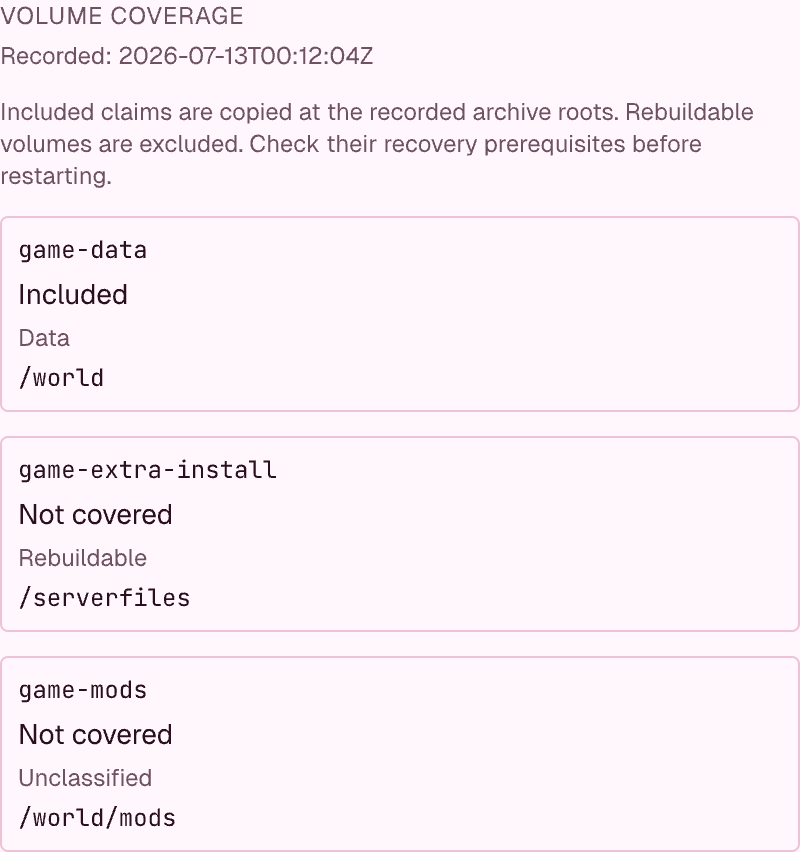
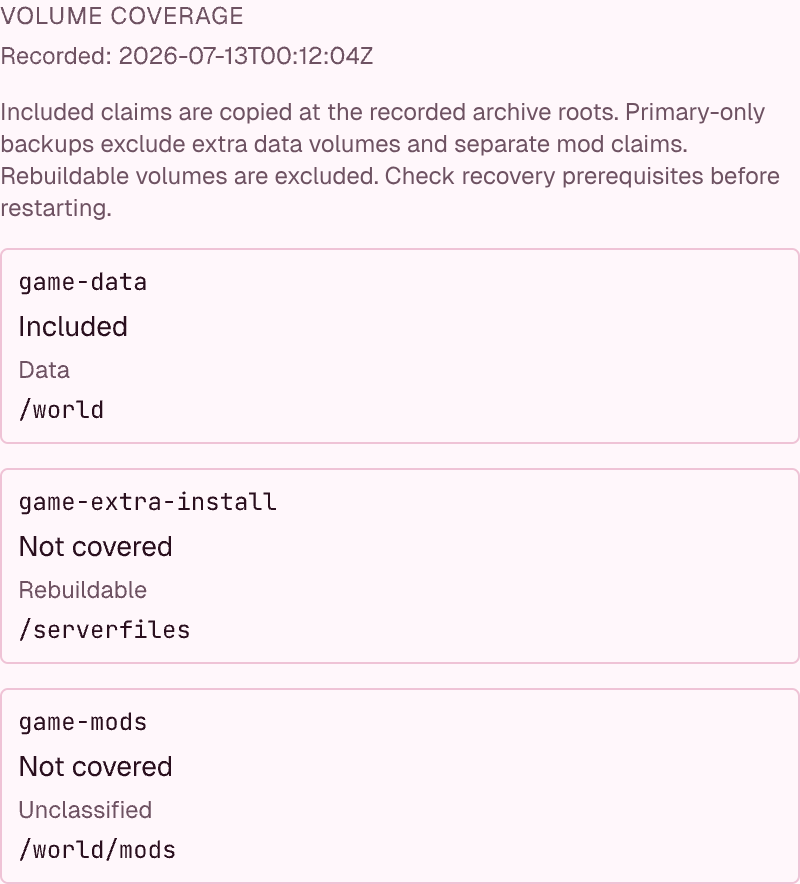
fix(recovery): address stopped backup review feedback

Changed region(s): [[0.0, 0.1221, 1.0, 0.9765], [0.0, 0.0, 0.4688, 0.0915], [0.9688, 0.2441, 1.0, 0.3052]]

diff --git a/web/src/components/backups/BackupDetailDrawer.test.tsx b/web/src/components/backups/BackupDetailDrawer.test.tsx
@@ -8,14 +8,18 @@ import { makeBackup } from "@/test/factories";
 import { BackupDetailDrawer } from "./BackupDetailDrawer";
 
 describe("BackupDetailDrawer", () => {
-  it("shows captured and excluded claims independently of copy success", async () => {
+  it.each([
+    { policy: "legacy/default primary", volumePolicy: undefined },
+    { policy: "explicit primary-only", volumePolicy: "primary-only" as const },
+  ])("shows captured and excluded claims for $policy independently of copy success", async ({ volumePolicy }) => {
     server.use(http.get("/backups/coverage", () => HttpResponse.json(makeBackup({
       metadata: { name: "coverage" },
       status: {
         phase: "Succeeded", snapshotID: "copy",
         conditions: [{ type: "Consistency", status: "False", reason: "UnsupportedRawCopy", message: "The game does not support quiesce." }],
-        captureManifest: { state: "Recorded", recordedAt: "2026-10-21T12:00:00Z", volumes: [
+        captureManifest: { state: "Recorded", volumePolicy, recordedAt: "2026-10-21T12:00:00Z", volumes: [
           { claimName: "game-data", claimUID: "world-uid", mountPaths: ["/world"], included: true, classification: "data", reason: "PrimaryDataClaim" },
+          { claimName: "game-extra-data", mountPaths: ["/extra-data"], included: false, classification: "data", reason: "NotCovered" },
           { claimName: "game-extra-install", mountPaths: ["/serverfiles"], included: false, classification: "rebuildable", reason: "NotCovered" },
           { claimName: "game-mods", mountPaths: ["/world/mods"], included: false, classification: "unclassified", reason: "NotCovered" },
         ] },
@@ -23,9 +27,11 @@ describe("BackupDetailDrawer", () => {
     }))));
     renderWithQuery(<BackupDetailDrawer permissions={["*"]} name="coverage" onClose={() => {}} onRestore={() => {}} />);
     expect(await screen.findByText("The game does not support quiesce.")).toBeInTheDocument();
+    expect(screen.getByText("Included claims are copied at the recorded archive roots. Primary-only backups exclude extra data volumes and separate mod claims. Rebuildable volumes are excluded. Check recovery prerequisites before restarting.")).toBeInTheDocument();
     expect(screen.getByText("game-data")).toBeInTheDocument();
+    expect(screen.getByText("game-extra-data")).toBeInTheDocument();
     expect(screen.getByText("/world/mods")).toBeInTheDocument();
-    expect(screen.getAllByText("Not covered")).toHaveLength(2);
+    expect(screen.getAllByText("Not covered")).toHaveLength(3);
     expect(screen.getByText("Rebuildable")).toBeInTheDocument();
   });
 

diff --git a/web/src/components/backups/BackupDetailDrawer.tsx b/web/src/components/backups/BackupDetailDrawer.tsx
@@ -89,7 +89,7 @@ export function BackupDetailDrawer({ name, ns, onClose, onRestore, target: expli
                     {manifest?.state === "Recorded" ? (
                       <div className="space-y-3">
                         {manifest.recordedAt && <div className="text-xs text-muted">{intl.formatMessage({ id: "web.components.backups.backup_detail_drawer.coverage_recorded", defaultMessage: "Recorded: {time}", description: "Backup details: timestamp of the immutable capture manifest" }, { time: manifest.recordedAt })}</div>}
-                        <p className="text-xs text-muted">{intl.formatMessage({ id: "web.components.backups.backup_detail_drawer.coverage_scope", defaultMessage: "Included claims are copied at the recorded archive roots. Rebuildable volumes are excluded. Check their recovery prerequisites before restarting.", description: "Backup details: explains recorded volume coverage and excluded rebuildable recovery prerequisites" })}</p>
+                        <p className="text-xs text-muted">{intl.formatMessage({ id: "web.components.backups.backup_detail_drawer.coverage_scope", defaultMessage: "Included claims are copied at the recorded archive roots. Primary-only backups exclude extra data volumes and separate mod claims. Rebuildable volumes are excluded. Check recovery prerequisites before restarting.", description: "Backup details: explains recorded volume coverage, primary-only exclusions, and recovery prerequisites for excluded volumes" })}</p>
                         <ul className="space-y-3">
                           {manifest.volumes?.map((volume) => (
                             <li key={volume.claimName} className="rounded border border-border p-2 space-y-1">

diff --git a/operator/internal/controller/recovery_controller_test.go b/operator/internal/controller/recovery_controller_test.go
@@ -11,6 +11,7 @@ import (
 	appsv1 "k8s.io/api/apps/v1"
 	batchv1 "k8s.io/api/batch/v1"
 	corev1 "k8s.io/api/core/v1"
+	"k8s.io/apimachinery/pkg/api/meta"
 	metav1 "k8s.io/apimachinery/pkg/apis/meta/v1"
 	"k8s.io/apimachinery/pkg/runtime"
 	"k8s.io/apimachinery/pkg/types"
@@ -264,6 +265,106 @@ func TestStoppedOwnerRejectsAmbiguousWorkload(t *testing.T) {
 	debt.Claims = b.Status.CaptureManifest.Volumes
 	if ready, err := stoppedBackupCleanup(t.Context(), c, c, gs, debt); ready || err == nil || !strings.Contains(err.Error(), "intervention") {
 		t.Fatalf("ambiguous provenance: %v %v", ready, err)
+	}
+}
+
+func TestRecoveryInterventionClearsAfterStoppedBackupCleanup(t *testing.T) {
+	for _, orphan := range []bool{false, true} {
+		t.Run(map[bool]string{false: "normal", true: "orphan"}[orphan], func(t *testing.T) {
+			c, gs, b, _ := recoveryFixture(t)
+			b.Annotations[backupTargetAnnotation] = backupIdentityJSON(gs.Name, gs.UID)
+			if err := c.Update(t.Context(), b); err != nil {
+				t.Fatal(err)
+			}
+			op := lifecycleOperation{lifecycleIdentity: backupLifecycleIdentity(gs, b, false)}
+			op.StoppedBackup.Stage = "Drained"
+			op.StoppedBackup.WorkloadUID = "unverified-workload"
+			op.StoppedBackup.Deadline = time.Now().Format(time.RFC3339Nano)
+			op.StoppedBackup.Claims = b.Status.CaptureManifest.Volumes
+			gs.Annotations[lifecycleOperationAnnotation] = lifecycleOperationJSON(op)
+			gs.Annotations[backupGuardAnnotation] = backupIdentityJSON(b.Name, b.UID)
+			if err := c.Update(t.Context(), gs); err != nil {
+				t.Fatal(err)
+			}
+			gs.Status.Conditions = []metav1.Condition{{Type: "Ready", Status: metav1.ConditionTrue, Reason: "Ready"}}
+			if err := c.Status().Update(t.Context(), gs); err != nil {
+				t.Fatal(err)
+			}
+			gr := &GameServerReconciler{Client: c, APIReader: c, Scheme: c.Scheme()}
+			br := &BackupReconciler{Client: c, APIReader: c, Scheme: c.Scheme()}
+			cleanup := func(wantError string) {
+				t.Helper()
+				var err error
+				if orphan {
+					_, err = gr.recoverStoppedBackupOwner(t.Context(), gs)
+					wantError = "" // Orphan intervention is reported through status.
+				} else {
+					err = br.releaseBackupTarget(t.Context(), b)
+				}
+				if wantError == "" && err != nil {
+					t.Fatal(err)
+				}
+				if wantError != "" && (err == nil || !strings.Contains(err.Error(), wantError)) {
+					t.Fatalf("cleanup error = %v, want %q", err, wantError)
+				}
+				if err := c.Get(t.Context(), client.ObjectKeyFromObject(gs), gs); err != nil {
+					t.Fatal(err)
+				}
+			}
+			if orphan {
+				if err := c.Delete(t.Context(), b); err != nil {
+					t.Fatal(err)
+				}
+			}
+			cleanup("intervention")
+			if !meta.IsStatusConditionTrue(gs.Status.Conditions, "RecoveryIntervention") || gs.Annotations[lifecycleOperationAnnotation] == "" {
+				t.Fatal("unverified workload did not retain intervention and ownership")
+			}
+			op.StoppedBackup.WorkloadUID = "workload"
+			gs.Annotations[lifecycleOperationAnnotation] = lifecycleOperationJSON(op)
+			if err := c.Update(t.Context(), gs); err != nil {
+				t.Fatal(err)
+			}
+			var ss appsv1.StatefulSet
+			if err := c.Get(t.Context(), client.ObjectKeyFromObject(gs), &ss); err != nil {
+				t.Fatal(err)
+			}
+			zero := int32(0)
+			ss.Spec.Replicas = &zero
+			if err := c.Update(t.Context(), &ss); err != nil {
+				t.Fatal(err)
+			}
+			writer := &corev1.Pod{ObjectMeta: metav1.ObjectMeta{Name: "remaining-writer", Namespace: gs.Namespace}, Spec: corev1.PodSpec{Volumes: []corev1.Volume{{Name: "world", VolumeSource: corev1.VolumeSource{PersistentVolumeClaim: &corev1.PersistentVolumeClaimVolumeSource{ClaimName: gs.Name + "-extra-world"}}}}}}
+			if err := c.Create(t.Context(), writer); err != nil {
+				t.Fatal(err)
+			}
+			cleanup("waiting for stopped source and workers to drain")
+			if changed, err := gr.recoverStoppedBackupOwner(t.Context(), gs); err != nil || changed {
+				t.Fatalf("intervention changed before writer drainage: %v %v", changed, err)
+			}
+			if !meta.IsStatusConditionTrue(gs.Status.Conditions, "RecoveryIntervention") || gs.Annotations[lifecycleOperationAnnotation] == "" {
+				t.Fatal("live writer did not retain intervention and ownership")
+			}
+			if err := c.Delete(t.Context(), writer); err != nil {
+				t.Fatal(err)
+			}
+			cleanup("")
+			if gs.Annotations[lifecycleOperationAnnotation] != "" || gs.Annotations[backupGuardAnnotation] != "" {
+				t.Fatal("completed cleanup retained ownership")
+			}
+			if changed, err := gr.recoverStoppedBackupOwner(t.Context(), gs); err != nil || !changed {
+				t.Fatalf("clear completed intervention: %v %v", changed, err)
+			}
+			if err := c.Get(t.Context(), client.ObjectKeyFromObject(gs), gs); err != nil {
+				t.Fatal(err)
+			}
+			if meta.FindStatusCondition(gs.Status.Conditions, "RecoveryIntervention") != nil || !meta.IsStatusConditionTrue(gs.Status.Conditions, "Ready") {
+				t.Fatal("completed cleanup retained intervention or removed unrelated status")
+			}
+			if changed, err := gr.recoverStoppedBackupOwner(t.Context(), gs); err != nil || changed {
+				t.Fatalf("clean recovery did not settle: %v %v", changed, err)
+			}
+		})
 	}
 }
 

diff --git a/operator/internal/controller/backup_stop.go b/operator/internal/controller/backup_stop.go
@@ -9,6 +9,7 @@ import (
 	appsv1 "k8s.io/api/apps/v1"
 	corev1 "k8s.io/api/core/v1"
 	apierrors "k8s.io/apimachinery/pkg/api/errors"
+	"k8s.io/apimachinery/pkg/api/meta"
 	metav1 "k8s.io/apimachinery/pkg/apis/meta/v1"
 	"k8s.io/apimachinery/pkg/types"
 	"sigs.k8s.io/controller-runtime/pkg/client"
@@ -141,7 +142,15 @@ func (r *GameServerReconciler) recoverStoppedBackupOwner(ctx context.Context, gs
 	if err != nil {
 		return true, recoveryIntervention(ctx, r.Client, gs, err.Error())
 	}
-	if !held || op.Kind != "Backup" || op.StoppedBackup == nil {
+	if !held {
+		// Wait until cleanup has durably released every owner and compatibility
+		// guard. A failed status write is retried on the next reconciliation.
+		if meta.RemoveStatusCondition(&gs.Status.Conditions, "RecoveryIntervention") {
+			return true, r.Status().Update(ctx, gs)
+		}
+		return false, nil
+	}
+	if op.Kind != "Backup" || op.StoppedBackup == nil {
 		return false, nil
 	}
 	exists, err := lifecycleOwnerExists(ctx, r.wipeReader(), gs.Namespace, op.lifecycleIdentity)

diff --git a/test/e2e/recovery_multivolume_e2e_test.go b/test/e2e/recovery_multivolume_e2e_test.go
@@ -96,7 +96,7 @@ func TestBackup_MultiVolumeRecoveryRoundTrip(t *testing.T) {
 			}
 		} else {
 			excluded++
-			if v["recoveryPrerequisite"] == "" {
+			if prerequisite, ok := v["recoveryPrerequisite"].(string); !ok || prerequisite == "" {
 				t.Fatal("missing recovery prerequisite")
 			}
 		}

diff --git a/operator/specs.md b/operator/specs.md
@@ -453,16 +453,16 @@ Primary reconcilers register with the manager in `cmd/main.go` and handle CRD li
   - Report RetentionTrimmed condition (success) or retention failure (TrimFailed).
 
 ### RestoreReconciler
-- **Responsibility:** Drive Restore to completion: suspend GameServer, run restic restore Job, resume.
+- **Responsibility:** Drive Restore to completion: stop the target workload, run the restore, and release lifecycle ownership according to the restore's power-intent contract.
 - **Key functions:**
   - Both restore strategies participate in shared lifecycle exclusion. A CSI restore reserves its new target with a Restore guard in the GameServer Create, then pins the target UID and adds the full owner. Its `initialStartup` mode permits the first workload to run, including PVCs using WaitForFirstConsumer; backup, wipe, restart, idle transitions and template rollout still wait for restore completion. The original server is unaffected.
   - Pin snapshot ID at observation (immutable during restore).
-  - Restic restores pin the target GameServer name/UID on the Restore and add a cleanup finalizer before acquiring an annotation guard on that GameServer. The guard records the owning Restore name/UID and is acquired with an optimistic resourceVersion update that also sets spec.suspend=true. Other restores targeting that server wait; restores of independent targets may run concurrently. The game workload remains suspended while the guard exists, even if a power request clears spec.suspend; data-wipe reconciliation also waits for the guard to clear.
+  - Restic restores pin the target GameServer name/UID on the Restore and add a cleanup finalizer before acquiring an annotation guard on that GameServer. The guard records the owning Restore name/UID and is acquired with an optimistic resourceVersion update. Legacy restores also set spec.suspend=true; v2 restores with a pinned recovery plan preserve the target's current spec.suspend and stop through lifecycle ownership. Other restores targeting that server wait; restores of independent targets may run concurrently. The game workload remains suspended while the guard exists, even if a power request clears spec.suspend; data-wipe reconciliation also waits for the guard to clear.
   - A nonempty pending data-wipe request blocks guard acquisition, including after wipe failure. Restore status explains this wait. An uncached read of the fixed-name wipe Job identifies a failed current request only when the current GameServer controls it, its token matches, and it reports Failed=True; DataWipe=False alone is insufficient. Confirmed failure reports that restore is blocked and asks the operator to inspect wipe Job logs and resolve the wipe failure. The restore does not cancel or acknowledge the wipe, since an in-flight wipe reconciliation could still create a writer. The wait message clears when restore acquires the target normally.
   - Suspend: wait for Suspended/Stopped status plus the actual workload: the owned StatefulSet must exist, request zero replicas, report zero replicas, and have observed its current generation. An absent StatefulSet waits for workload reconciliation; a missing template or broken workload must be repaired before restore can proceed. No live or terminating game pod or pod mounting the data PVC may remain. Nonterminal Jobs mounting that PVC must also finish before a new restore Job starts. These checks use the uncached API reader and run again immediately before creating the Job.
   - The stopped StatefulSet also receives the owning Restore guard. A successful fence write immediately requeues the Restore to repeat the workload and writer checks; only external drainage waits use the polling delay. Its mutation callback honors that guard even when the GameServer cache snapshot predates acquisition, fencing delayed scale-up writes with the StatefulSet resourceVersion. Cleanup removes both guards after workers drain.
   - Restore Job: mount snapshot (from VolumeSnapshot or restic), run restic restore. Job carries BackoffLimit and ActiveDeadlineSeconds from the reconciler's JobBackoffLimit / JobActiveDeadlineSeconds fields (operator flags --backup-job-backoff-limit / --backup-job-active-deadline-seconds, Helm operator.backupJobBackoffLimit / operator.backupJobActiveDeadlineSeconds; defaults 2 and 86400, applied when unset; spec 018 OD-027); Job failure is recognized only from a Failed=True condition. Legacy in-flight Jobs without the pinned target annotation fail the Restore and are canceled/drained; operators can start a fresh Restore after cleanup. Pod SecurityContext takes FSGroup from the target GameTemplate's spec.security.fsGroup (fallback 65532 if template missing).
-  - Resume: once the restore Job succeeds and its live pods have drained, persist Succeeded before releasing the matching guard and clearing suspend in the same pass. This ordering survives interrupted status writes or operator restarts; it does not wait for the GameServer to reach Running again. Failure/deletion cancels active owned Jobs with foreground deletion, retires CSI initial-startup permission and suspends the target while retaining the guard/finalizer. Release additionally requires an owned StatefulSet with desired/observed zero replicas at its current generation, no live or terminating game/PVC writer pods and no pending PVC writer Jobs. Orphan recovery applies the same stopped-target proof before admitting a successor, preserving the template while forcing zero replicas. Successful CSI restores keep their initial workload running. Target recreation fails the old restore; cleanup never changes the replacement server.
+  - Resume: once the restore Job succeeds and its live pods have drained, persist Succeeded before releasing the matching guard in the same pass. Legacy restores clear spec.suspend; v2 restores preserve current suspend, idle and restart intent, so a suspended target stays suspended. This ordering survives interrupted status writes or operator restarts; it does not wait for the GameServer to reach Running again. Failure/deletion cancels active owned Jobs with foreground deletion, retires CSI initial-startup permission and suspends the target while retaining the guard/finalizer. Release additionally requires an owned StatefulSet with desired/observed zero replicas at its current generation, no live or terminating game/PVC writer pods and no pending PVC writer Jobs. Orphan recovery applies the same stopped-target proof before admitting a successor, preserving the template while forcing zero replicas. Successful CSI restores keep their initial workload running. Target recreation fails the old restore; cleanup never changes the replacement server.
   - Status: report phase (Pending/Suspending/Running/Succeeded/Failed). `RestorePhaseResuming` is declared on the type but never assigned by this reconciler (F-260).
   - Volume-snapshot restore reference handling: When a volume-snapshot restore stands up a new GameServer from the original server's spec, any references in spec.env (SecretKeyRef, ConfigMapKeyRef) and spec.networking.tunnel.credentialsSecretRef that are owned by the original server must be copied to new objects owned by the restored server, with rewritten names, because the restored server does not own the originals. Ownership of a source object is an OwnerReference to the original server (Kind, Name, UID) and is re-verified against the source object immediately before each copy, not just once during planning. An object that already exists under a copy name is accepted only if the restored server controls it (a controller OwnerReference, `controller: true`); otherwise the restore fails. The restore fails before the new GameServer is created if the original server does not own every referenced object. The references are rewritten in the new GameServer's spec when it is created, and the copies are made right after creation and re-ensured on every reconcile pass. Only an ownership refusal fails the restore; transient errors (stale cache reads, write conflicts, a referenced object not yet visible in the cache) requeue it. A restore's 10-minute deadline starts when the restore first plans the new server (before it is created) and covers both creating the server with its reference copies and waiting for it to reach Running; it is enforced even while a transient error (such as a referenced object that stays missing) keeps recurring, so the restore cannot run past the limit, and once it expires the restore fails with a deadline message.
 
@@ -817,5 +817,7 @@ receive Pod-bound authorization only after mounted claims and mapping revalidate
 V2 restores stop through lifecycle guards and preserve current power intent on
 success. Failed/cancelled writes stay suspended. Orphan stopped backups recover
 autonomously through the GameServer owner; unknown provenance remains fenced.
-See [the recovery contract](../specs/032-stopped-multivolume-recovery/contracts/recovery.md)
+RecoveryIntervention is removed only after cleanup has durably released lifecycle
+ownership and its compatibility guards; unresolved owners retain the condition.
+See [the recovery contract](../specs/033-stopped-multivolume-recovery/contracts/recovery.md)
 and [operator operations](../docs/operator-operations.md) for defaults and failures.

diff --git a/web/specs.md b/web/specs.md
@@ -620,6 +620,7 @@ Every file in slice 2b imports **only** from `@heroui/react` and `@/components/u
 **BackupDetailDrawer.tsx:**
 - Slide-out right panel (modal positioned right-side or Drawer component)
 - Shows backup metadata: ID, server, size (human-readable), created/expires timestamps
+- Shows recorded capture coverage with archive roots and saved recovery prerequisites. Coverage guidance states that primary-only backups exclude extra data volumes and separate mod claims, and that rebuildable volumes are excluded.
 - Retention expiry badge (green/yellow/red based on days remaining)
 - Associated backup file listing (if applicable)
 - Close button or swipe-to-close

diff --git a/docs/operator-operations.md b/docs/operator-operations.md
@@ -40,6 +40,7 @@ orphan workers and continues the original stop before releasing ownership.
 `RecoveryIntervention=True` retains the fence when provenance is missing or a
 workload was replaced. Inspect those identities and resolve the conflicting
 workload/worker before recovery; deleting an owner marker does not prove safety.
+The condition clears after cleanup releases lifecycle ownership and its guards.
 
 `all-data` includes primary data, explicitly classified `data` extra volumes and
 active separate loader/mod volumes. Every observed or declared required claim
